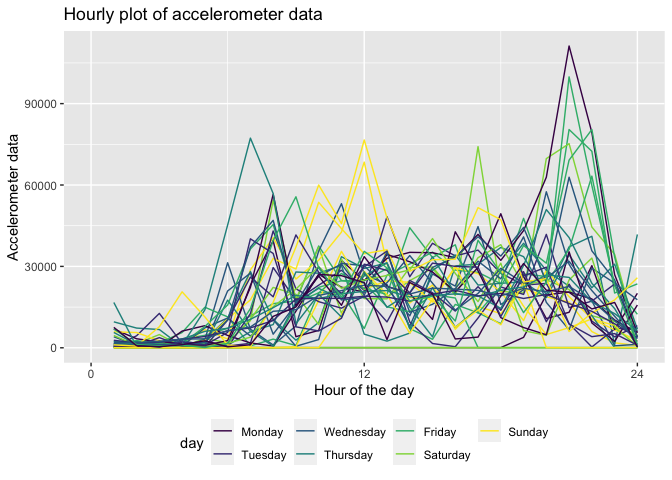
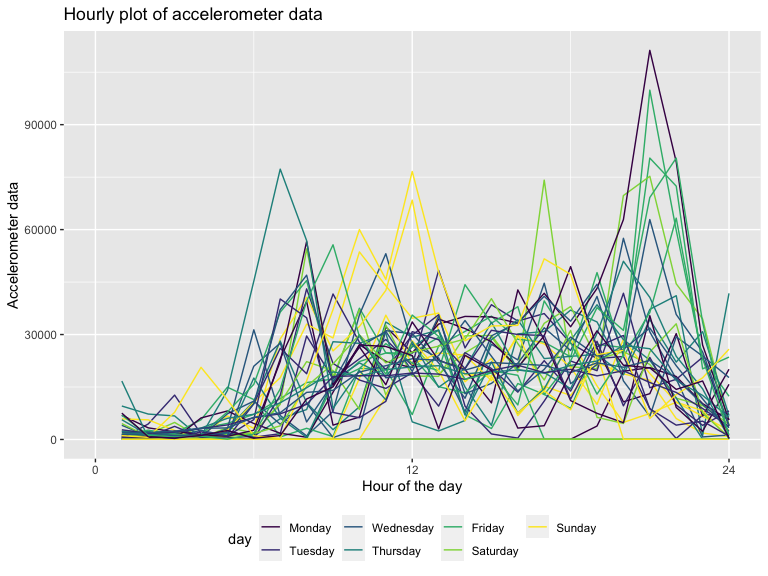
final

Changed region(s): [[0.0, 0.0, 1.0, 0.9688]]

diff --git a/p8105_hw3_zz3039.md b/p8105_hw3_zz3039.md
@@ -8,7 +8,130 @@ library(readr)
 library(p8105.datasets)
 library(ggridges)
 library(patchwork)
+
+knitr::opts_chunk$set(
+    echo = TRUE,
+    warning = FALSE,
+    fig.width = 8, 
+  fig.height = 6,
+  out.width = "90%")
+
+options(
+  ggplot2.continuous.colour = "viridis",
+  ggplot2.continuous.fill = "viridis")
 ```
+
+## Problem 1
+
+``` r
+data("instacart")
+
+instacart = 
+  instacart %>% 
+  as_tibble(instacart)
+```
+
+This dataset contains 1384617 rows and 15 columns, with each row
+resprenting a single product from an instacart order. Variables include
+identifiers for user, order, and product; the order in which each
+product was added to the cart. There are several order-level variables,
+describing the day and time of the order, and number of days since prior
+order. Then there are several item-specific variables, describing the
+product name (e.g. Yogurt, Avocado), department (e.g. dairy and eggs,
+produce), and aisle (e.g. yogurt, fresh fruits), and whether the item
+has been ordered by this user in the past. In total, there are 39123
+products found in 131209 orders from 131209 distinct users.
+
+Below is a table summarizing the number of items ordered from aisle. In
+total, there are 134 aisles, with fresh vegetables and fresh fruits
+holding the most items ordered by far.
+
+``` r
+instacart %>% 
+  count(aisle) %>% 
+  arrange(desc(n))
+```
+
+    ## # A tibble: 134 × 2
+    ##    aisle                              n
+    ##    <chr>                          <int>
+    ##  1 fresh vegetables              150609
+    ##  2 fresh fruits                  150473
+    ##  3 packaged vegetables fruits     78493
+    ##  4 yogurt                         55240
+    ##  5 packaged cheese                41699
+    ##  6 water seltzer sparkling water  36617
+    ##  7 milk                           32644
+    ##  8 chips pretzels                 31269
+    ##  9 soy lactosefree                26240
+    ## 10 bread                          23635
+    ## # … with 124 more rows
+
+Next is a plot that shows the number of items ordered in each aisle.
+Here, aisles are ordered by ascending number of items.
+
+``` r
+instacart %>% 
+  count(aisle) %>% 
+  filter(n > 10000) %>% 
+  mutate(aisle = fct_reorder(aisle, n)) %>% 
+  ggplot(aes(x = aisle, y = n)) + 
+  geom_point() + 
+  labs(title = "Number of items ordered in each aisle") +
+  theme(axis.text.x = element_text(angle = 60, hjust = 1))
+```
+
+<img src="p8105_hw3_zz3039_files/figure-gfm/chunk_p1_3-1.png" width="90%" />
+
+Our next table shows the three most popular items in aisles
+`baking ingredients`, `dog food care`, and `packaged vegetables fruits`,
+and includes the number of times each item is ordered in your table.
+
+``` r
+instacart %>% 
+  filter(aisle %in% c("baking ingredients", "dog food care", "packaged vegetables fruits")) %>%
+  group_by(aisle) %>% 
+  count(product_name) %>% 
+  mutate(rank = min_rank(desc(n))) %>% 
+  filter(rank < 4) %>% 
+  arrange(desc(n)) %>%
+  knitr::kable()
+```
+
+| aisle                      | product_name                                  |    n | rank |
+|:---------------------------|:----------------------------------------------|-----:|-----:|
+| packaged vegetables fruits | Organic Baby Spinach                          | 9784 |    1 |
+| packaged vegetables fruits | Organic Raspberries                           | 5546 |    2 |
+| packaged vegetables fruits | Organic Blueberries                           | 4966 |    3 |
+| baking ingredients         | Light Brown Sugar                             |  499 |    1 |
+| baking ingredients         | Pure Baking Soda                              |  387 |    2 |
+| baking ingredients         | Cane Sugar                                    |  336 |    3 |
+| dog food care              | Snack Sticks Chicken & Rice Recipe Dog Treats |   30 |    1 |
+| dog food care              | Organix Chicken & Brown Rice Recipe           |   28 |    2 |
+| dog food care              | Small Dog Biscuits                            |   26 |    3 |
+
+Finally is a table showing the mean hour of the day at which Pink Lady
+Apples and Coffee Ice Cream are ordered on each day of the week. This
+table has been formatted in an untidy manner for human readers. Pink
+Lady Apples are generally purchased slightly earlier in the day than
+Coffee Ice Cream, with the exception of day 5.
+
+``` r
+instacart %>%
+  filter(product_name %in% c("Pink Lady Apples", "Coffee Ice Cream")) %>%
+  group_by(product_name, order_dow) %>%
+  summarize(mean_hour = mean(order_hour_of_day)) %>%
+  spread(key = order_dow, value = mean_hour) %>%
+  knitr::kable(digits = 2)
+```
+
+    ## `summarise()` has grouped output by 'product_name'. You can override using the
+    ## `.groups` argument.
+
+| product_name     |     0 |     1 |     2 |     3 |     4 |     5 |     6 |
+|:-----------------|------:|------:|------:|------:|------:|------:|------:|
+| Coffee Ice Cream | 13.77 | 14.32 | 15.38 | 15.32 | 15.22 | 12.26 | 13.83 |
+| Pink Lady Apples | 13.44 | 11.36 | 11.70 | 14.25 | 11.55 | 12.78 | 11.94 |
 
 ## Problem 2
 
@@ -138,7 +261,7 @@ plot_hour_data =
 plot_hour_data
 ```
 
-![](p8105_hw3_zz3039_files/figure-gfm/chunk_p2_3-1.png)<!-- -->
+<img src="p8105_hw3_zz3039_files/figure-gfm/chunk_p2_3-1.png" width="90%" />
 
 From the graph we can tell that the accelerometer data was generally low
 in the first 5 hours of the day, while having peaks during 5\~10 hours
@@ -285,12 +408,12 @@ jj_data %>%
   theme(legend.position = "none")
 ```
 
-![](p8105_hw3_zz3039_files/figure-gfm/chunk_p3_2-1.png)<!-- --> It can
-be seen from the graph that the average max temperature in January and
-July in each station fluctuated stably across years, with temperature in
-January centered approximately around 0 and July around 27. There were
-also outliers in each month, like the extreme low temperature in July
-around 1982 and June around 1988.
+<img src="p8105_hw3_zz3039_files/figure-gfm/chunk_p3_2-1.png" width="90%" />
+It can be seen from the graph that the average max temperature in
+January and July in each station fluctuated stably across years, with
+temperature in January centered approximately around 0 and July around
+27. There were also outliers in each month, like the extreme low
+temperature in July around 1982 and June around 1988.
 
 ``` r
 tmax_data = 
@@ -316,7 +439,7 @@ tmax_data/snow_data
 
     ## Picking joint bandwidth of 3.76
 
-![](p8105_hw3_zz3039_files/figure-gfm/chunk_p3_3-1.png)<!-- -->
+<img src="p8105_hw3_zz3039_files/figure-gfm/chunk_p3_3-1.png" width="90%" />
 
 The first graph showed the density of tmin and tmax, as we can see, they
 both followed a uniform-like distribution with the mean lower for tmin
